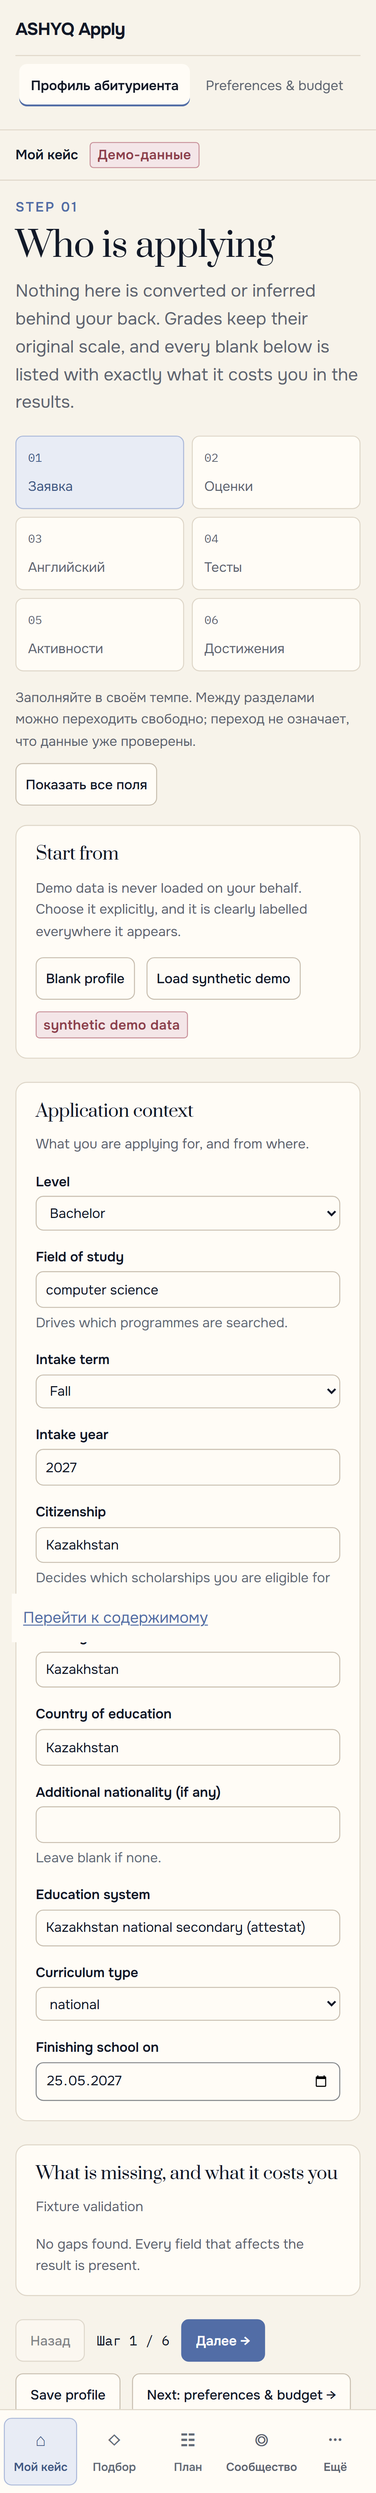
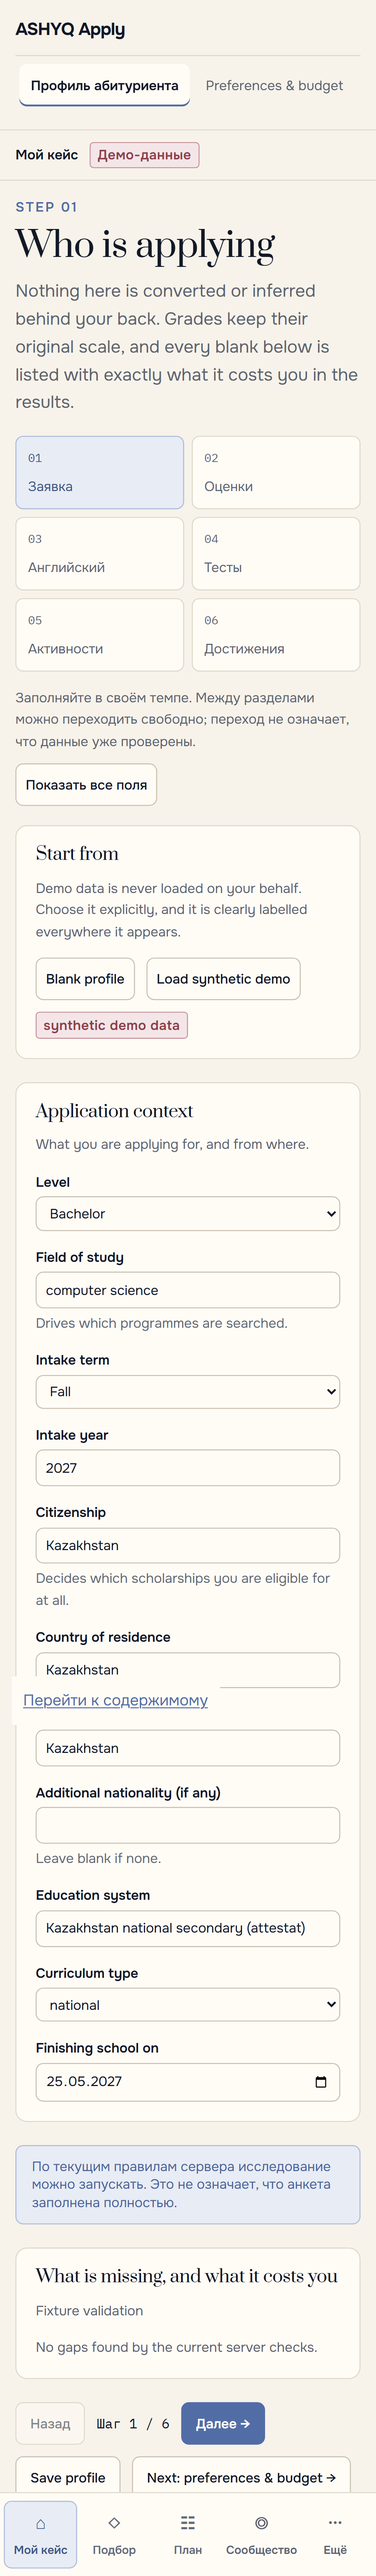
wip: [E02] keep validation fresh; full integration gates remain pending
Agent: gpt-6-astra

diff --git a/frontend/src/lib/useProfileValidation.test.tsx b/frontend/src/lib/useProfileValidation.test.tsx
@@ -1,0 +1,88 @@
+import { act, renderHook } from '@testing-library/react';
+import { afterEach, beforeEach, expect, it, vi } from 'vitest';
+import { api, ApiError } from '@/api/client';
+import { useProfileValidation } from './useProfileValidation';
+import type { ProfileValidationReport } from '@/types';
+
+const report: ProfileValidationReport = { gaps: [], can_proceed: true, blocking_count: 0, summary: 'current' };
+function deferred() {
+  let resolve!: (value: ProfileValidationReport) => void;
+  let reject!: (reason: Error) => void;
+  const promise = new Promise<ProfileValidationReport>((yes, no) => { resolve = yes; reject = no; });
+  return { promise, resolve, reject };
+}
+const tick = () => act(async () => { await vi.advanceTimersByTimeAsync(400); });
+beforeEach(() => { vi.useFakeTimers(); });
+afterEach(() => { vi.useRealTimers(); vi.restoreAllMocks(); });
+
+it('debounces edits and exposes only the current draft report', async () => {
+  const validate = vi.spyOn(api, 'validateProfile').mockResolvedValue(report);
+  const { result, rerender } = renderHook(({ draft }) => useProfileValidation(draft, true), { initialProps: { draft: {} } });
+  rerender({ draft: { version: 2 } });
+  expect(validate).not.toHaveBeenCalled();
+  await tick();
+  expect(validate).toHaveBeenCalledTimes(1);
+  expect(result.current.validation).toBe(report);
+  rerender({ draft: { version: 3 } });
+  expect(result.current.validation).toBeNull();
+  expect(result.current.validationStatus).toBe('pending');
+});
+
+it.each(['success', 'failure'])('ignores a late old %s after the newer response', async (outcome) => {
+  const old = deferred();
+  vi.spyOn(api, 'validateProfile').mockReturnValueOnce(old.promise).mockResolvedValue(report);
+  const { result, rerender } = renderHook(({ draft }) => useProfileValidation(draft, true), { initialProps: { draft: {} } });
+  await tick();
+  rerender({ draft: { newCase: true } });
+  await tick();
+  await act(async () => { if (outcome === 'success') old.resolve({ ...report, can_proceed: false }); else old.reject(new Error('old')); });
+  expect(result.current.validation).toBe(report);
+  expect(result.current.validationStatus).toBe('ready');
+});
+
+it('reports unavailable checks and retries without stale readiness', async () => {
+  vi.spyOn(api, 'validateProfile').mockRejectedValueOnce(new Error('offline')).mockResolvedValue(report);
+  const draft = {};
+  const { result } = renderHook(() => useProfileValidation(draft, true));
+  await tick();
+  expect(result.current.validationStatus).toBe('error');
+  act(() => result.current.retryValidation());
+  expect(result.current.validationStatus).toBe('pending');
+  await tick();
+  expect(result.current.validation).toBe(report);
+});
+
+it('distinguishes invalid input from unavailable validation', async () => {
+  vi.spyOn(api, 'validateProfile').mockRejectedValue(new ApiError(422, 'invalid'));
+  const draft = {};
+  const { result } = renderHook(() => useProfileValidation(draft, true));
+  await tick();
+  expect(result.current.validationStatus).toBe('invalid');
+  expect(result.current.validation).toBeNull();
+});
+
+it('waits for hydration and cancels a pending timer on unmount', async () => {
+  const validate = vi.spyOn(api, 'validateProfile').mockResolvedValue(report);
+  const draft = {};
+  const { rerender, unmount } = renderHook(({ enabled }) => useProfileValidation(draft, enabled), { initialProps: { enabled: false } });
+  await tick();
+  expect(validate).not.toHaveBeenCalled();
+  rerender({ enabled: true });
+  unmount();
+  await tick();
+  expect(validate).not.toHaveBeenCalled();
+});
+
+it('invalidates a previous report when hydration restarts with the same draft', async () => {
+  vi.spyOn(api, 'validateProfile').mockResolvedValue(report);
+  const draft = {};
+  const { result, rerender } = renderHook(({ enabled }) => useProfileValidation(draft, enabled), { initialProps: { enabled: true } });
+  await tick();
+  expect(result.current.validation).toBe(report);
+  rerender({ enabled: false });
+  rerender({ enabled: true });
+  expect(result.current.validation).toBeNull();
+  expect(result.current.validationStatus).toBe('pending');
+  await tick();
+  expect(result.current.validation).toBe(report);
+});

diff --git a/frontend/src/lib/store.tsx b/frontend/src/lib/store.tsx
@@ -12,6 +12,7 @@ import {
 } from 'react';
 import { ApiError, api, isPaymentRequired } from '@/api/client';
 import { DEFAULT_PROFILE } from '@/lib/defaultProfile';
+import { useProfileValidation, type ValidationStatus } from '@/lib/useProfileValidation';
 import {
   adoptPointer, clearDraftSlot, isLocalCaseKey, migrateLegacyDraft, newLocalCaseKey,
   readDraftEnvelope, writeDraftEnvelope, writePointer,
@@ -59,6 +60,8 @@ export interface Store {
   loadDemoProfile: () => void;
   clearProfile: () => void;
   validation: ProfileValidationReport | null;
+  validationStatus: ValidationStatus;
+  retryValidation: () => void;
   run: RunView | null;
   results: ProgramResult[];
   summary: ShortlistSummary | null;
@@ -146,7 +149,6 @@ export function StoreProvider({ children }: { children: ReactNode }) {
   );
   const [savedProfile, setSavedProfile] = useState<StoredProfile | null>(null);
   const [cases, setCases] = useState<ApplicantCase[]>([]);
-  const [validation, setValidation] = useState<ProfileValidationReport | null>(null);
   const [run, setRun] = useState<RunView | null>(null);
   const [results, setResults] = useState<ProgramResult[]>([]);
   const [shortlist, setShortlist] = useState<BalancedShortlist | null>(null);
@@ -159,6 +161,7 @@ export function StoreProvider({ children }: { children: ReactNode }) {
   >(null);
   const [draftRestored, setDraftRestored] = useState(false);
   const [hydrated, setHydrated] = useState(false);
+  const { validation, validationStatus, retryValidation } = useProfileValidation(profileDraft, hydrated);
   //: What the draft looked like when it was last saved or loaded. Comparing
   //: against this is what makes "unsaved changes" a fact rather than a guess.
   const [baseline, setBaseline] = useState<string>('');
@@ -240,13 +243,6 @@ export function StoreProvider({ children }: { children: ReactNode }) {
     if (savedProfile) setDraft(toDraft(savedProfile));
   }, [activeCaseKey, savedProfile]);
 
-  // Validation follows the draft, debounced so typing does not flood the API.
-  useEffect(() => {
-    const timer = window.setTimeout(() => {
-      api.validateProfile(profileDraft).then(setValidation).catch(() => setValidation(null));
-    }, 400);
-    return () => window.clearTimeout(timer);
-  }, [profileDraft]);
 
   const saveNotes = useCallback(async (resultId: string, notes: string) => {
     if (!run) return;
@@ -577,7 +573,6 @@ export function StoreProvider({ children }: { children: ReactNode }) {
     setRun(null);
     setResults([]);
     setSummary(null);
-    setValidation(null);
     writePointer('profile', localId);
     writePointer('run', null);
   }, []);
@@ -762,7 +757,7 @@ export function StoreProvider({ children }: { children: ReactNode }) {
     () => ({
       capabilities, profileDraft, setProfileDraft, savedProfile, cases, switchCase, newCase, restored,
       dirty, draftRestored, discardDraft, hydrated,
-      loadDemoProfile, clearProfile, validation, run, results,
+      loadDemoProfile, clearProfile, validation, validationStatus, retryValidation, run, results,
       summary, loading, error, saveProfile, startRun, cancelRun, retryRun, recheckNow, collectDocuments,
       exportShortlist, decide, saveNotes, refreshResults, rerank, shortlist, deleteEverything,
       clearError: () => setError(null),
@@ -770,7 +765,7 @@ export function StoreProvider({ children }: { children: ReactNode }) {
     }),
     [capabilities, profileDraft, setProfileDraft, savedProfile, cases, switchCase, newCase,
      restored, dirty, draftRestored, discardDraft, hydrated, loadDemoProfile,
-     clearProfile, validation, run, results, summary, loading, error, saveProfile, startRun,
+     clearProfile, validation, validationStatus, retryValidation, run, results, summary, loading, error, saveProfile, startRun,
      cancelRun, retryRun, recheckNow, collectDocuments, exportShortlist, decide, saveNotes,
      refreshResults, rerank, shortlist, deleteEverything, paywall, unlockFromSubscription],
   );

diff --git a/frontend/src/screens/ProfileScreen.tsx b/frontend/src/screens/ProfileScreen.tsx
@@ -14,6 +14,7 @@ import { useStore } from '@/lib/store';
 import type { TranscriptSuggestion } from '@/types';
 import { useTranslation } from '@/lib/useTranslation';
 import { profileWizardCopy } from '@/lib/profileWizardCopy';
+import { profileValidationCopy } from '@/lib/profileValidationCopy';
 import { ExamPicker } from '@/components/ExamPicker';
 
 /** "4.82 out of 5", not "[object Object]". */
@@ -38,6 +39,7 @@ const SEVERITY_LABEL: Record<string, string> = {
 export function ProfileScreen({ onNext }: { onNext: () => void }) {
   const { locale } = useTranslation();
   const copy = profileWizardCopy[locale];
+  const validationCopy = profileValidationCopy[locale];
   const [step, setStep] = useState(0);
   const [showAll, setShowAll] = useState(false);
   const sectionRef = useRef<HTMLDivElement>(null);
@@ -47,7 +49,7 @@ export function ProfileScreen({ onNext }: { onNext: () => void }) {
     sectionRef.current?.focus();
   };
   const {
-    profileDraft, setProfileDraft, validation, saveProfile, loading,
+    profileDraft, setProfileDraft, validation, validationStatus, retryValidation, saveProfile, loading,
     savedProfile, restored, loadDemoProfile, clearProfile, draftRestored, discardDraft,
   } = useStore();
   const [saved, setSaved] = useState(false);
@@ -564,13 +566,22 @@ export function ProfileScreen({ onNext }: { onNext: () => void }) {
         </Panel>
         </div>
 
+        <div role="status" aria-live="polite" data-testid="profile-validation-status">
+          <Notice kind={validationStatus === 'invalid' || (validation && !validation.can_proceed) ? 'risk' : validationStatus === 'error' ? 'warn' : 'info'}>
+            {validationStatus === 'error' || validationStatus === 'invalid' ? validationCopy[validationStatus]
+              : validation ? (validation.can_proceed ? validationCopy.eligible : `${validationCopy.blocked} ${validation.blocking_count}`)
+                : validationCopy.pending}
+            {validationStatus === 'error' && <button type="button" className="btn" onClick={retryValidation}>{validationCopy.retry}</button>}
+          </Notice>
+        </div>
+
         {validation && (
           <Panel
             title="What is missing, and what it costs you"
             hint={validation.summary}
           >
             {validation.gaps.length === 0 ? (
-              <p className="muted small">No gaps found. Every field that affects the result is present.</p>
+              <p className="muted small">No gaps found by the current server checks.</p>
             ) : (
               <div className="stack stack--tight" data-testid="gap-list">
                 {validation.gaps.map((g) => (
@@ -580,9 +591,9 @@ export function ProfileScreen({ onNext }: { onNext: () => void }) {
                     </Chip>
                     <div>
                       <div className="gap-item__path">{g.field_path}</div>
-                      <p className="small" style={{ margin: '2px 0 0' }}>{g.impact}</p>
+                      <p className="small" style={{ margin: 'var(--space-0-5) var(--space-0) var(--space-0)' }}>{g.impact}</p>
                       {g.suggested_action && (
-                        <p className="xs muted" style={{ margin: '4px 0 0' }}>→ {g.suggested_action}</p>
+                        <p className="xs muted" style={{ margin: 'var(--space-1) var(--space-0) var(--space-0)' }}>→ {g.suggested_action}</p>
                       )}
                     </div>
                   </div>

diff --git a/frontend/e2e/redesign.spec.ts b/frontend/e2e/redesign.spec.ts
@@ -1,6 +1,33 @@
 import { expect, test } from '@playwright/test';
 import AxeBuilder from '@axe-core/playwright';
 
+test('profile validation shows current server eligibility and recovers from unavailable checks', async ({ page }, info) => {
+  let response: 'blocked' | 'ready' | 'error' = 'blocked';
+  await page.route('**/api/profiles/validate', async (route) => {
+    await route.fulfill({ status: response === 'error' ? 503 : 200, contentType: 'application/json',
+      body: JSON.stringify(response === 'error' ? { detail: 'Unavailable' } : {
+        gaps: [], summary: 'Server fixture', can_proceed: response === 'ready', blocking_count: response === 'blocked' ? 1 : 0,
+      }) });
+  });
+  await page.goto('/#/profile');
+  const status = page.getByTestId('profile-validation-status');
+  await expect(status).toContainText('блокирующие пункты: 1');
+  response = 'ready';
+  await page.getByLabel('Citizenship', { exact: true }).fill('Canada');
+  await expect(status).toContainText('Проверяем');
+  await expect(status).toContainText('не означает, что анкета заполнена полностью');
+  response = 'error';
+  await page.getByLabel('Citizenship', { exact: true }).fill('KZ');
+  await expect(status).toContainText('Проверка недоступна');
+  response = 'ready';
+  await status.getByRole('button', { name: 'Повторить проверку' }).click();
+  await expect(status).toContainText('исследование можно запускать');
+  expect((await new AxeBuilder({ page }).withTags(['wcag2a', 'wcag2aa', 'wcag21aa']).analyze()).violations).toEqual([]);
+  expect(await page.evaluate(() => document.documentElement.scrollWidth <= innerWidth)).toBe(true);
+  await status.scrollIntoViewIfNeeded();
+  await page.screenshot({ path: info.outputPath('profile-validation.png') });
+});
+
 test.beforeEach(async ({ page }) => {
   await page.addInitScript(() => { localStorage.setItem('ashyq.locale', 'ru'); });
   await page.route('**/api/**', async (route) => {

diff --git a/frontend/src/lib/profileValidationCopy.ts b/frontend/src/lib/profileValidationCopy.ts
@@ -1,0 +1,20 @@
+export const profileValidationCopy = {
+  ru: {
+    pending: 'Проверяем текущие данные…', invalid: 'Проверьте формат и заполнение полей. Сервер не смог проверить эту анкету.',
+    error: 'Проверка недоступна. Готовность текущих данных пока неизвестна.', retry: 'Повторить проверку',
+    eligible: 'По текущим правилам сервера исследование можно запускать. Это не означает, что анкета заполнена полностью.',
+    blocked: 'Перед запуском исследования нужно исправить блокирующие пункты:',
+  },
+  kk: {
+    pending: 'Ағымдағы деректер тексерілуде…', invalid: 'Өрістердің пішімі мен толтырылуын тексеріңіз. Сервер бұл сауалнаманы тексере алмады.',
+    error: 'Тексеру қолжетімсіз. Ағымдағы деректердің дайындығы әзірге белгісіз.', retry: 'Қайта тексеру',
+    eligible: 'Сервердің ағымдағы ережелері бойынша зерттеуді бастауға болады. Бұл сауалнама толық толтырылды дегенді білдірмейді.',
+    blocked: 'Зерттеуді бастамас бұрын бөгейтін тармақтарды түзету керек:',
+  },
+  en: {
+    pending: 'Checking current data…', invalid: 'Check field formats and incomplete entries. The server could not validate this profile.',
+    error: 'Validation is unavailable. Readiness of the current data is unknown.', retry: 'Retry validation',
+    eligible: 'Research can start under current server rules. This does not mean the profile is complete.',
+    blocked: 'Resolve blocking items before starting research:',
+  },
+};

diff --git a/frontend/src/lib/useProfileValidation.ts b/frontend/src/lib/useProfileValidation.ts
@@ -1,0 +1,36 @@
+import { useCallback, useEffect, useState } from 'react';
+import { ApiError, api } from '@/api/client';
+import type { ProfileValidationReport } from '@/types';
+
+export type ValidationStatus = 'pending' | 'ready' | 'invalid' | 'error';
+
+/** A report is usable only for the draft and retry that requested it. */
+export function useProfileValidation(draft: Record<string, unknown>, enabled: boolean) {
+  const [attempt, setAttempt] = useState(0);
+  const [result, setResult] = useState<{
+    draft: Record<string, unknown>; attempt: number;
+    status: ValidationStatus; report: ProfileValidationReport | null;
+  } | null>(null);
+  const retryValidation = useCallback(() => setAttempt((value) => value + 1), []);
+
+  useEffect(() => {
+    if (!enabled) { setResult(null); return; }
+    let cancelled = false;
+    const timer = window.setTimeout(() => {
+      api.validateProfile(draft).then((report) => {
+        if (!cancelled) setResult({ draft, attempt, status: 'ready', report });
+      }).catch((error: unknown) => {
+        if (!cancelled) setResult({ draft, attempt, report: null,
+          status: error instanceof ApiError && error.status === 422 ? 'invalid' : 'error' });
+      });
+    }, 400);
+    return () => { cancelled = true; window.clearTimeout(timer); };
+  }, [draft, enabled, attempt]);
+
+  const current = enabled && result?.draft === draft && result.attempt === attempt;
+  return {
+    validation: current ? result.report : null,
+    validationStatus: current ? result.status : 'pending' as ValidationStatus,
+    retryValidation,
+  };
+}

diff --git a/docs/frontend-redesign.md b/docs/frontend-redesign.md
@@ -66,3 +66,18 @@ shared documentation image, which must not fail otherwise valid UI assertions.
 Readiness follow-up must distinguish the current API's `can_proceed` from the stronger proposed E02
 threshold: current validation blocks only a missing subject area. Planned-only Duolingo is not yet
 accepted by the schema. Do not invent a stronger frontend gate or claim planned scores are achieved.
+
+## E02 current-draft validation
+
+StoreProvider now uses a debounced, race-safe validation hook: draft edits immediately hide the
+previous report; cancelled requests cannot overwrite a newer success or failure. Hydration and retry
+invalidate readiness. ProfileScreen uses the existing Notice styling for RU/KK/EN checking, invalid
+input, unavailable/retry, blocked count and server-eligible feedback. Eligibility is explicitly not
+completeness. No backend gate or schema changed; detailed server gap text remains server-provided.
+
+Verified: 215 unit tests (24 files), 10 mocked desktop/mobile browser scenarios, typecheck, lint,
+build, token audit (0 errors/0 warnings), Ruff check/format, mypy (164 files), and 43 focused profile
+backend tests. Full backend coverage and ordinary/auth integration E2E were not rerun. Existing
+KZT baseline and dev dependency caveats remain. 21st CLI unavailable; reused project Notice/token
+contracts and inspected the mobile browser capture instead. Next: localize the remaining profile
+labels and gap presentation without changing backend field keys or server validation rules.

diff --git a/docs/process/HANDOFF.md b/docs/process/HANDOFF.md
@@ -271,6 +271,12 @@ The backend KZT failure in section 7 needs separate resolution; do not claim all
 
 ## 6. Gate status at last run (numbers, not adjectives)
 
+2026-09-09 current-draft validation: 215 unit tests/24 files, 10 mocked browser scenarios,
+typecheck/lint/build and audit (0 errors/0 warnings) pass. Ruff check/format, mypy (164 files),
+43 focused profile backend tests pass. Full backend coverage and ordinary/auth E2E not rerun;
+prior KZT/dev-dependency caveats remain. First new browser attempt used an unchanged fixture value;
+corrected to a real edit, both desktop/mobile scenarios pass. No backend change.
+
 2026-09-09 exam-picker slice: typecheck/lint/build, 208 unit tests (23 files), 8 mocked browser
 scenarios and token audit (5 CSS/SCSS, 0 errors/0 warnings) pass. Ruff check/format and mypy pass
 (164 source files); focused `tests/test_scoring_and_profile.py` passes. No backend code changed.

diff --git a/specs/components/profile-screen.md b/specs/components/profile-screen.md
@@ -31,6 +31,12 @@ existing case-scoped draft persistence stays in StoreProvider. No new server aut
 
 ## 6. States
 
+Validation belongs to the exact current draft only. While hydration or debounced validation is pending,
+hide previous reports. Ignore late successes and failures after draft replacement or unmount.
+Show localized checking, invalid input, unavailable, blocked, or eligible feedback with a retry action
+for unavailable checks. Eligibility uses server can_proceed and blocking_count; it is not completeness.
+Validation never adds a new client-side save or research gate.
+
 One active step or all fields; next/back; empty/partial draft; loading/save; conversion error;
 transcript read/review/apply. Focus moves to the section container after next/back. Step navigation
 is keyboard-operable with native buttons and aria-current. No false completion rings.
